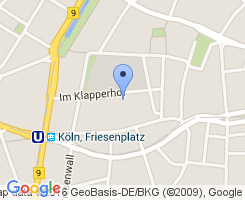
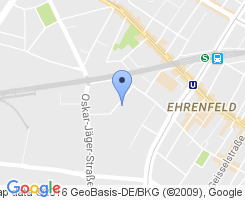
Issue 4312 - change the physical addresses to the new one

diff --git a/includes/contact/address.md b/includes/contact/address.md
@@ -1,9 +1,9 @@
 ### <span>Mailing address:</span> ### {.heading}
 
 Eyeo GmbH<br>
-Im Klapperhof 7-23<br>
-50670 Cologne<br>
+Lichtstraße 25<br>
+50825 Cologne<br>
 Germany
 
-<!-- Image source: https://maps.googleapis.com/maps/api/staticmap?size=245x200&zoom=15&markers=color:blue%7CIm+Klapperhof+7,+50670+Cologne,+Germany -->
-[![Cologne map with office location](/images/map-cologne-office.png)](https://www.google.com/maps/place/Im+Klapperhof+7,+50670+Cologne,+Germany/)
+<!-- Image source: https://maps.googleapis.com/maps/api/staticmap?size=245x200&zoom=14&markers=color:blue%7CLichtstraße+25,+50825+Cologne,+Germany -->
+[![Cologne map with office location](/images/map-cologne-office.png)](https://www.google.com/maps/place/Lichtstraße+25,+50825+Cologne,+Germany/)
